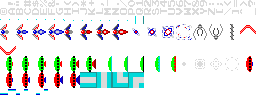
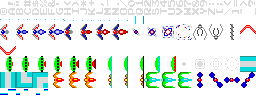
Spreader enemy (beginnings)

Changed region(s): [[0.0, 0.5625, 1.0, 0.9375]]

diff --git a/src/enemy.c b/src/enemy.c
@@ -18,15 +18,50 @@ void EnemyInitNext() {
 }
 
 void EnemyInit(Enemy *enemy) {
-    enemy->lane = rand() % 9; // Pick random lane.
-    enemy->y = 1 + (enemy->lane * 3);
+    u8 i = 0;
+    enemy->type = rand() % 3;
+
+    if(enemy->type == HAWKEYE) {
+        enemy->lane = (rand() % 7) + 1;
+        while(i < ENEMY_COUNT) {
+            if(&enemies[i] != enemy && enemies[i].active && (enemies[i].type == HAWKEYE || enemies[i].lane == enemy->lane)) {
+                return;
+            }
+            i++;
+        }
+    } else {
+        enemy->lane = rand() % 9;
+        while(i < ENEMY_COUNT) {
+            if(&enemies[i] != enemy && enemies[i].active && enemies[i].type == HAWKEYE && enemies[i].lane == enemy->lane) {
+                return;
+            }
+            i++;
+        }
+    }
+
+
+    enemy->y = CALC_Y_FROM_LANE(enemy->lane);
     enemy->x = END_POINT_X;
     enemy->active = 1;
+    enemy->animTime = 0;
     enemy->dieTime = 0;
     enemy->moveTime = 0;
-    enemy->score = 1;
     enemy->preTime = 30;
+    switch(enemy->type) {
+        case HAWKEYE:
+            enemy->score = 0;
+            enemy->x -= 6;
+            enemy->preTime = 0;
+            break;
+        case THRUSTER:
+            enemy->score = 2;
+            break;
+        default:
+            enemy->score = 1;
+    }
+
     enemy->alreadyFired = 0;
+    enemy->currentLaser = NULL;
     EnemyDraw(enemy);
 }
 
@@ -59,7 +94,32 @@ void EnemyKill(Enemy *enemy) {
     enemy->dieTime = 1;
 }
 
+void EnemyUpdateHawkeye(Enemy *enemy) {
+    u8 modTime;
+
+    enemy->animTime++;
+    modTime = enemy->animTime % 4;
+    if(enemy->animTime < 30) {
+        if(!modTime) {
+            EnemyDraw(enemy);
+        } else if(modTime == 2) {
+            Fill(enemy->x, enemy->y, ENEMY_SIZE, ENEMY_SIZE, 0);
+        }
+    } else if(enemy->animTime == 90) {
+        EnemyFire(enemy);
+    } else if(enemy->animTime >= 200) {
+        EnemyDeactivate(enemy);
+    }
+}
+
 void EnemyUpdate(Enemy *enemy) {
+    u8 moveTime = 30;
+    if(enemy->type == THRUSTER) {
+        moveTime = 12;
+    } else if(enemy->type == HAWKEYE) {
+        moveTime = 0;
+    }
+
     if(!enemy->active) {
         return;
     }
@@ -96,32 +156,50 @@ void EnemyUpdate(Enemy *enemy) {
         return;
     }
 
-    if(enemy->currentLaser && !enemy->currentLaser->active) {
-        enemy->currentLaser = NULL;
-    } else if(rand() % 100 == 1) {
-        EnemyFire(enemy);
-    }
-
     enemy->animTime++;
     if(enemy->animTime >= 12) {
         enemy->animTime = 0;
     }
 
     enemy->moveTime++;
-    if(enemy->moveTime == 30) {
-        if(enemy->x == LANE_BOTTOM_X - 1) {
-            EnemyDeactivate(enemy);
-        } else {
-            Fill(enemy->x, enemy->y, 1, ENEMY_SIZE, 0);
-            if(!enemy->currentLaser) {
-                enemy->x++;
+    if(enemy->type == HAWKEYE) {
+        u8 modTime = enemy->moveTime % 4;
+        if(enemy->moveTime < 30) {
+            if(!modTime) {
+                EnemyDraw(enemy);
+            } else if(modTime == 2) {
+                Fill(enemy->x, enemy->y, ENEMY_SIZE, ENEMY_SIZE, 0);
             }
+        } else if(enemy->moveTime == 90) {
+            EnemyFire(enemy);
+        } else if(enemy->moveTime >= 200) {
+            EnemyDeactivate(enemy);
+        } else if(enemy->animTime % 2 == 0) {
             EnemyDraw(enemy);
         }
-        enemy->moveTime = 0;
-    } else if(!(enemy->animTime % 2)) {
-        EnemyDraw(enemy);
+    } else {
+        if(enemy->currentLaser && !enemy->currentLaser->active) {
+            enemy->currentLaser = NULL;
+        } else if(rand() % 100 == 1) {
+            EnemyFire(enemy);
+        }
+
+        if(enemy->moveTime == moveTime) {
+            if(enemy->x == LANE_BOTTOM_X - 1) {
+                EnemyDeactivate(enemy);
+            } else {
+                Fill(enemy->x, enemy->y, 1, ENEMY_SIZE, 0);
+                if(!enemy->currentLaser) {
+                    enemy->x++;
+                }
+                EnemyDraw(enemy);
+            }
+            enemy->moveTime = 0;
+        } else if(!(enemy->animTime % 2)) {
+            EnemyDraw(enemy);
+        }
     }
+
 }
 
 void EnemyDraw(Enemy *enemy) {
@@ -137,17 +215,35 @@ void EnemyDraw(Enemy *enemy) {
         }
         return;
     } else if(enemy->preTime) {
-        if(bgTime < 8) {
-            DrawMap(BACKGROUND_LINE_X - 1, enemy->y, mapEnemyPre[0]);
-        } else if(bgTime < 16 || bgTime >= 24) {
-            DrawMap(BACKGROUND_LINE_X - 1, enemy->y, mapEnemyPre[1]);
+        if(enemy->type == THRUSTER) {
+            if(bgTime < 8) {
+                DrawMap(BACKGROUND_LINE_X - 1, enemy->y, mapEnemyPre[3]);
+            } else if(bgTime < 16 || bgTime >= 24) {
+                DrawMap(BACKGROUND_LINE_X - 1, enemy->y, mapEnemyPre[4]);
+            } else {
+                DrawMap(BACKGROUND_LINE_X - 1, enemy->y, mapEnemyPre[5]);
+            }
         } else {
-            DrawMap(BACKGROUND_LINE_X - 1, enemy->y, mapEnemyPre[2]);
+            if(bgTime < 8) {
+                DrawMap(BACKGROUND_LINE_X - 1, enemy->y, mapEnemyPre[0]);
+            } else if(bgTime < 16 || bgTime >= 24) {
+                DrawMap(BACKGROUND_LINE_X - 1, enemy->y, mapEnemyPre[1]);
+            } else {
+                DrawMap(BACKGROUND_LINE_X - 1, enemy->y, mapEnemyPre[2]);
+            }
         }
+
         return;
     }
 
-    DrawMap(enemy->x, enemy->y, mapEnemy[enemy->animTime >> 1]);
+    if(enemy->type == HAWKEYE) {
+        DrawMap(enemy->x, enemy->y, mapEnemy[(enemy->animTime >> 2) + 9]);
+    } else if(enemy->type == THRUSTER) {
+        DrawMap(enemy->x, enemy->y, mapEnemy[(enemy->animTime >> 2) + 6]);
+    } else {
+        DrawMap(enemy->x, enemy->y, mapEnemy[enemy->animTime >> 1]);
+    }
+
 }
 
 void EnemyDeactivate(Enemy *enemy) {

diff --git a/src/player.c b/src/player.c
@@ -9,7 +9,7 @@ void PlayerDraw(Player *);
 void PlayerInit(Player *player, u8 index) {
     player->index = index;
     player->lane = index ? 6 : 2;
-    player->y = ((8 - player->lane) * 3) + 1;
+    player->y = CALC_Y_FROM_LANE(player->lane);
     player->x = PLAYER_X;
 
     player->active = 1;
@@ -54,10 +54,11 @@ void PlayerInput(Player *player) {
 
     if(controls[player->index] & BTN_LEFT) {
         if(!player->leftStick) {
+            player->leftStick = 1;
             if(player->y < 25) {
                 PlayerLaunchClaw(player, player->y + 3);
+                return;
             }
-            player->leftStick = 1;
         }
     } else if(player->leftStick) {
         player->leftStick = 0;
@@ -65,10 +66,11 @@ void PlayerInput(Player *player) {
 
     if(controls[player->index] & BTN_RIGHT) {
         if(!player->rightStick) {
+            player->rightStick = 1;
             if(player->y > 1) {
                 PlayerLaunchClaw(player, player->y - 3);
+                return;
             }
-            player->rightStick = 1;
         }
     } else if(player->rightStick) {
         player->rightStick = 0;
@@ -152,7 +154,7 @@ void PlayerUpdateClaw(Player *player) {
     player->clawTime++;
     if(player->clawTime >= 7) {
         player->clawTime = 0;
-        player->lane = player->lane + (laneUp ? 1 : -1);
+        player->lane = player->lane + (laneUp ? -1 : 1);
     }
 }
 
@@ -162,12 +164,12 @@ void PlayerKill(Player *player) {
 }
 
 void PlayerUpdate(Player *player) {
+    // If the player is inactive, leave.
     if(!player->active) {
         return;
     }
 
     // Laser updates
-
     u8 i = 0;
     while(i < PLAYER_LASER_COUNT) {
         LaserUpdate(&player->lasers[i]);
@@ -178,6 +180,13 @@ void PlayerUpdate(Player *player) {
     while(i < PLAYER_EXTRA_LASER_COUNT) {
         LaserUpdate(&player->extraLasers[i]);
         i++;
+    }
+
+    // Score updates first
+    if(player->scoreDelta) {
+        player->score += player->scoreDelta;
+        PrintU16Vertical(1, player->index ? 0 : 20, player->score, 50000, 1);
+        player->scoreDelta = 0;
     }
 
     // Is player dying?
@@ -197,7 +206,7 @@ void PlayerUpdate(Player *player) {
         } else if(player->killTime >= 68) {
             if(player->killTime == 68) {
                 player->lane = 4;
-                player->y = ((8 - player->lane) * 3) + 1;
+                player->y = CALC_Y_FROM_LANE(player->lane);
                 player->lives--;
             }
 
@@ -248,12 +257,6 @@ void PlayerUpdate(Player *player) {
                 Fill(30, 0, 1, 17, 0);
             }
         }
-    }
-
-    if(player->scoreDelta) {
-        player->score += player->scoreDelta;
-        PrintU16Vertical(1, player->index ? 0 : 20, player->score, 50000, 1);
-        player->scoreDelta = 0;
     }
 
     player->animTime++;

diff --git a/src/gfx.c b/src/gfx.c
@@ -33,13 +33,22 @@ const char *mapEnemy[] = {
     mapEnemy2,
     mapEnemy3,
     mapEnemy4,
-    mapEnemy5
+    mapEnemy5,
+    mapEnemy6,
+    mapEnemy7,
+    mapEnemy8,
+    mapEnemySpreader0,
+    mapEnemySpreader1,
+    mapEnemySpreader2
 };
 
 const char *mapEnemyPre[] = {
     mapEnemyPre0,
     mapEnemyPre1,
-    mapEnemyPre2
+    mapEnemyPre2,
+    mapEnemyPre3,
+    mapEnemyPre4,
+    mapEnemyPre5
 };
 
 const char *mapEnemyExplode[] = {

diff --git a/src/laser.c b/src/laser.c
@@ -89,8 +89,8 @@ void EnemyLaserInit(Laser *laser, u8 x, u8 lane, LaserStyle laserStyle) {
     if(laserStyle == LASER_STYLE_ENEMY_STRAIGHT) {
         laser->x = x;
         laser->startX = x;
-        laser->y = (lane * 3) + 1;
         laser->lane = lane;
+        laser->y = CALC_Y_FROM_LANE(lane);
         laser->time = 0;
         DrawMap(laser->x, laser->y, mapEnemyLaser);
     }

diff --git a/src/whipline.c b/src/whipline.c
@@ -9,7 +9,7 @@ void WhiplineInit(Whipline *whipline, u8 lane) {
 
     whipline->lane = lane;
     whipline->x = LANE_BOTTOM_X - 1;
-    whipline->y = (lane * 3) + 1;
+    whipline->y = CALC_Y_FROM_LANE(lane);
     whipline->grabbedTime = 0;
     whipline->updateTime = 0;
     whipline->active = 1;

diff --git a/src/main.c b/src/main.c
@@ -15,7 +15,7 @@ int main() {
 
     BackgroundInit();
     PlayerInit(&players[0], 0);
-    PlayerInit(&players[1], 1);
+    //PlayerInit(&players[1], 1);
 
     while(1) {
         WaitVsync(1);

diff --git a/src/enemy.h b/src/enemy.h
@@ -11,7 +11,9 @@
 #define ENEMY_COUNT 10
 
 typedef enum {
-    STANDARD
+    STANDARD,
+    THRUSTER,
+    HAWKEYE
 } EnemyType;
 
 typedef struct {

diff --git a/src/gfx.h b/src/gfx.h
@@ -3,7 +3,7 @@
 
 #include "defines.h"
 
-#define LASER_TILE_START 200
+#define LASER_TILE_START 222
 
 extern const char gfxTiles[];
 

diff --git a/src/defines.h b/src/defines.h
@@ -10,4 +10,6 @@
 #define END_POINT_X 17
 #define LANE_BOTTOM_X 28
 
+#define CALC_Y_FROM_LANE(lane) (((8 - lane) * 3) + 1)
+
 #endif
